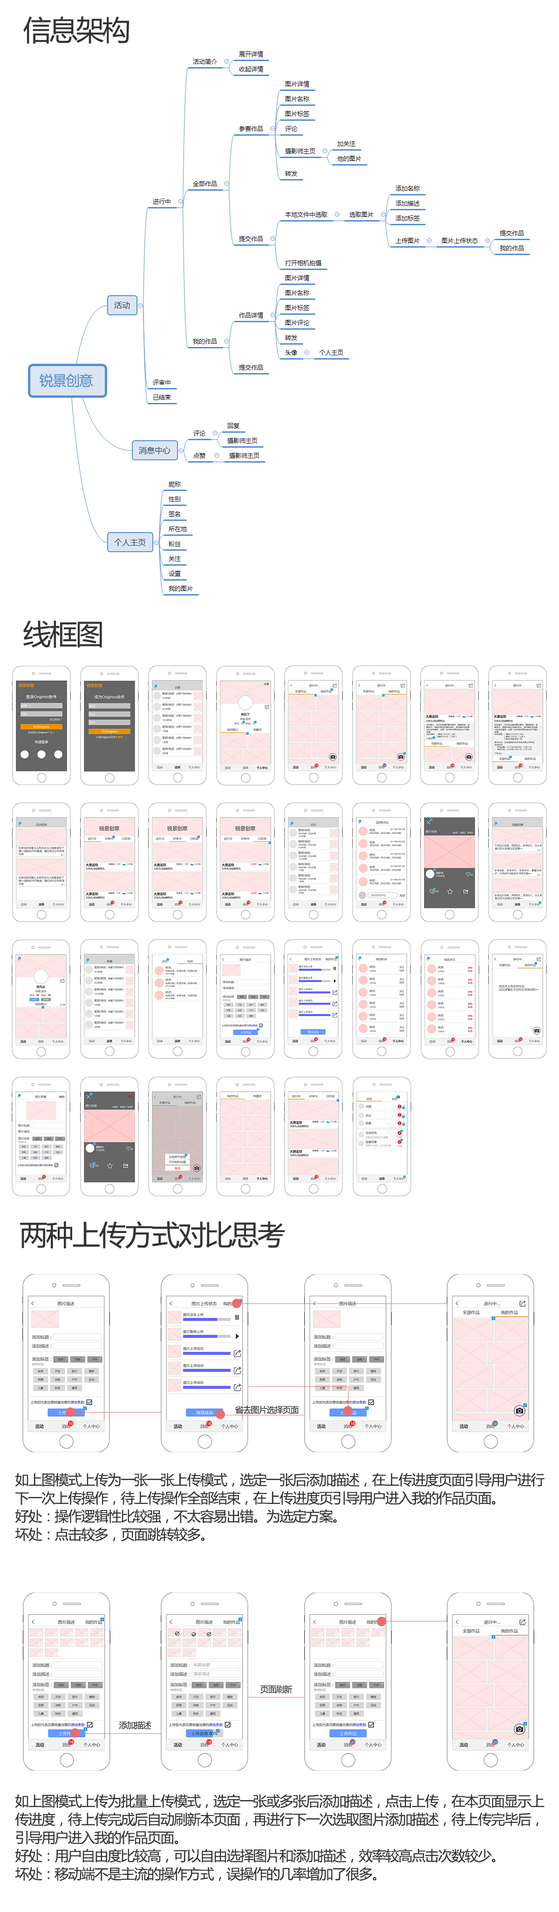
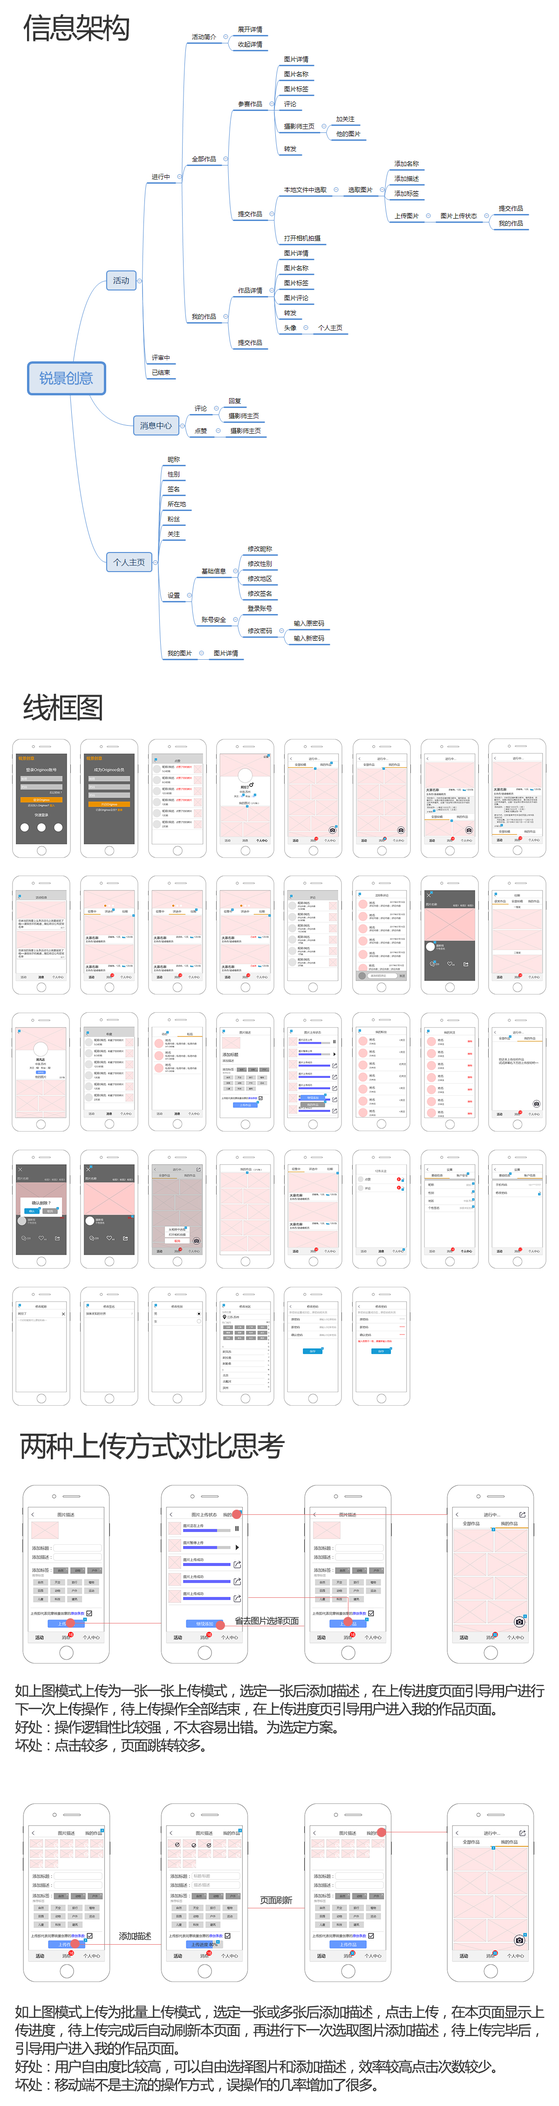
Site updated: 2017-08-06 18:30:31

diff --git a/2017/07/20/originoo/index.html b/2017/07/20/originoo/index.html
@@ -100,7 +100,7 @@
             <!-- Post -->
             <div class="typo" style="">
                 <p><img src="originoo.jpg" alt=""></p>
-<h1 id="Originoo-锐景创意-2017年05月-2017年8月-产品经理助理-交互设计师"><a href="#Originoo-锐景创意-2017年05月-2017年8月-产品经理助理-交互设计师" class="headerlink" title="Originoo 锐景创意 2017年05月-2017年8月 产品经理助理/交互设计师"></a>Originoo 锐景创意 2017年05月-2017年8月 产品经理助理/交互设计师</h1><h2 id="公司简介"><a href="#公司简介" class="headerlink" title="公司简介"></a><strong>公司简介</strong></h2><h3 id="锐景创意图库是一个集聚世界各地艺术家摄影、插画、视频、音乐作品的正版媒体素材库。我们致力于让每一位消费者能够便捷的购买到满意的媒体素材，并为艺术家提供可信赖的展示销售平台与合理的收入。"><a href="#锐景创意图库是一个集聚世界各地艺术家摄影、插画、视频、音乐作品的正版媒体素材库。我们致力于让每一位消费者能够便捷的购买到满意的媒体素材，并为艺术家提供可信赖的展示销售平台与合理的收入。" class="headerlink" title="锐景创意图库是一个集聚世界各地艺术家摄影、插画、视频、音乐作品的正版媒体素材库。我们致力于让每一位消费者能够便捷的购买到满意的媒体素材，并为艺术家提供可信赖的展示销售平台与合理的收入。"></a>锐景创意图库是一个集聚世界各地艺术家摄影、插画、视频、音乐作品的正版媒体素材库。我们致力于让每一位消费者能够便捷的购买到满意的媒体素材，并为艺术家提供可信赖的展示销售平台与合理的收入。</h3><h2 id="实习项目"><a href="#实习项目" class="headerlink" title="实习项目"></a><strong>实习项目</strong></h2><h3 id="1-Originoo-锐景创意移动端H5设计（移动端的活动版块，按照APP来设计，已排期预计8月中上线）"><a href="#1-Originoo-锐景创意移动端H5设计（移动端的活动版块，按照APP来设计，已排期预计8月中上线）" class="headerlink" title="1 Originoo 锐景创意移动端H5设计（移动端的活动版块，按照APP来设计，已排期预计8月中上线）"></a>1 Originoo 锐景创意移动端H5设计（移动端的活动版块，按照APP来设计，已排期预计8月中上线）</h3><h3 id="2-Originoo-锐景创意首页图片分类导航栏设计（已上线）"><a href="#2-Originoo-锐景创意首页图片分类导航栏设计（已上线）" class="headerlink" title="2 Originoo 锐景创意首页图片分类导航栏设计（已上线）"></a>2 Originoo 锐景创意首页图片分类导航栏设计（已上线）</h3><h3 id="3-图片详情页电商化设计（已上线）"><a href="#3-图片详情页电商化设计（已上线）" class="headerlink" title="3 图片详情页电商化设计（已上线）"></a>3 图片详情页电商化设计（已上线）</h3><h3 id="4-图片授权书生成查看页面原型交互设计（已排期7月底上线）"><a href="#4-图片授权书生成查看页面原型交互设计（已排期7月底上线）" class="headerlink" title="4 图片授权书生成查看页面原型交互设计（已排期7月底上线）"></a>4 图片授权书生成查看页面原型交互设计（已排期7月底上线）</h3><h3 id="5-供稿人中心设计（已排期8月初上线）"><a href="#5-供稿人中心设计（已排期8月初上线）" class="headerlink" title="5 供稿人中心设计（已排期8月初上线）"></a>5 供稿人中心设计（已排期8月初上线）</h3><h2 id="Originoo-锐景创意移动端活动版块H5设计"><a href="#Originoo-锐景创意移动端活动版块H5设计" class="headerlink" title="Originoo 锐景创意移动端活动版块H5设计"></a><strong>Originoo 锐景创意移动端活动版块H5设计</strong></h2><h3 id="本次的移动端H5设计，主要是将网页端的活动页面的功能，做成移动端的H5页面，主要功能有查看活动详情、查看参赛作品、上传个人作品、点赞评论等功能，按APP标准设计制作。公司长期战略需要上马一款APP，但主要功能和定位还不清楚，此次设计为移动端的一次试水，也可以理解为锐景创意APP前身。使用工具-PS-Axure-用时1个月。"><a href="#本次的移动端H5设计，主要是将网页端的活动页面的功能，做成移动端的H5页面，主要功能有查看活动详情、查看参赛作品、上传个人作品、点赞评论等功能，按APP标准设计制作。公司长期战略需要上马一款APP，但主要功能和定位还不清楚，此次设计为移动端的一次试水，也可以理解为锐景创意APP前身。使用工具-PS-Axure-用时1个月。" class="headerlink" title="本次的移动端H5设计，主要是将网页端的活动页面的功能，做成移动端的H5页面，主要功能有查看活动详情、查看参赛作品、上传个人作品、点赞评论等功能，按APP标准设计制作。公司长期战略需要上马一款APP，但主要功能和定位还不清楚，此次设计为移动端的一次试水，也可以理解为锐景创意APP前身。使用工具 PS Axure 用时1个月。"></a>本次的移动端H5设计，主要是将网页端的活动页面的功能，做成移动端的H5页面，主要功能有查看活动详情、查看参赛作品、上传个人作品、点赞评论等功能，按APP标准设计制作。公司长期战略需要上马一款APP，但主要功能和定位还不清楚，此次设计为移动端的一次试水，也可以理解为锐景创意APP前身。使用工具 PS Axure 用时1个月。</h3><h3 id="设计收获：这是第一次做移动端的设计，之前的实习经历都是做网页端的，对我来说是一个比较大的挑战，和伙伴们讨论了多次，也做了许多方案出来，不停的修改确定流程才到了如今这个版本，但肯定还有很多不足会继续迭代改正。个人感觉移动端和网页端的主要不同有一下几点：1-屏幕尺寸相差太大，一些在网页端一个页面可以完成的操作，移动端要几个页面才能完成。2-网页端操作会有光标会有各种不同的状态提示而移动端受制于屏幕尺寸的关系，各种提示信息设计难度会大一些。3-网页端可以开很多窗口而移动端只能是不同页面之间跳转，交互流程设计会有很大不同。4-设计H5页面时，应该考虑呈现端的不同，例如微信端的就和浏览器端的不同，而不同浏览器间也会有不同，应该充分考虑实际情况。"><a href="#设计收获：这是第一次做移动端的设计，之前的实习经历都是做网页端的，对我来说是一个比较大的挑战，和伙伴们讨论了多次，也做了许多方案出来，不停的修改确定流程才到了如今这个版本，但肯定还有很多不足会继续迭代改正。个人感觉移动端和网页端的主要不同有一下几点：1-屏幕尺寸相差太大，一些在网页端一个页面可以完成的操作，移动端要几个页面才能完成。2-网页端操作会有光标会有各种不同的状态提示而移动端受制于屏幕尺寸的关系，各种提示信息设计难度会大一些。3-网页端可以开很多窗口而移动端只能是不同页面之间跳转，交互流程设计会有很大不同。4-设计H5页面时，应该考虑呈现端的不同，例如微信端的就和浏览器端的不同，而不同浏览器间也会有不同，应该充分考虑实际情况。" class="headerlink" title="设计收获：这是第一次做移动端的设计，之前的实习经历都是做网页端的，对我来说是一个比较大的挑战，和伙伴们讨论了多次，也做了许多方案出来，不停的修改确定流程才到了如今这个版本，但肯定还有很多不足会继续迭代改正。个人感觉移动端和网页端的主要不同有一下几点：1.屏幕尺寸相差太大，一些在网页端一个页面可以完成的操作，移动端要几个页面才能完成。2.网页端操作会有光标会有各种不同的状态提示而移动端受制于屏幕尺寸的关系，各种提示信息设计难度会大一些。3.网页端可以开很多窗口而移动端只能是不同页面之间跳转，交互流程设计会有很大不同。4.设计H5页面时，应该考虑呈现端的不同，例如微信端的就和浏览器端的不同，而不同浏览器间也会有不同，应该充分考虑实际情况。"></a><strong>设计收获</strong>：这是第一次做移动端的设计，之前的实习经历都是做网页端的，对我来说是一个比较大的挑战，和伙伴们讨论了多次，也做了许多方案出来，不停的修改确定流程才到了如今这个版本，但肯定还有很多不足会继续迭代改正。个人感觉移动端和网页端的主要不同有一下几点：1.屏幕尺寸相差太大，一些在网页端一个页面可以完成的操作，移动端要几个页面才能完成。2.网页端操作会有光标会有各种不同的状态提示而移动端受制于屏幕尺寸的关系，各种提示信息设计难度会大一些。3.网页端可以开很多窗口而移动端只能是不同页面之间跳转，交互流程设计会有很大不同。4.设计H5页面时，应该考虑呈现端的不同，例如微信端的就和浏览器端的不同，而不同浏览器间也会有不同，应该充分考虑实际情况。</h3><h3 id="原型链接：Originoo-锐景创意-iphone用户可以用手机自带浏览器打开，可自适应屏幕。"><a href="#原型链接：Originoo-锐景创意-iphone用户可以用手机自带浏览器打开，可自适应屏幕。" class="headerlink" title="原型链接：Originoo 锐景创意 iphone用户可以用手机自带浏览器打开，可自适应屏幕。"></a><strong>原型链接</strong>：<a href="http://7vklcr.axshare.com/#c=2" target="_blank" rel="external">Originoo 锐景创意</a> iphone用户可以用手机自带浏览器打开，可自适应屏幕。</h3><p><img src="H501.jpg" alt=""><br><img src="H502.jpg" alt=""></p>
+<h1 id="Originoo-锐景创意-2017年05月-2017年8月-产品经理助理-交互设计师"><a href="#Originoo-锐景创意-2017年05月-2017年8月-产品经理助理-交互设计师" class="headerlink" title="Originoo 锐景创意 2017年05月-2017年8月 产品经理助理/交互设计师"></a>Originoo 锐景创意 2017年05月-2017年8月 产品经理助理/交互设计师</h1><h2 id="公司简介"><a href="#公司简介" class="headerlink" title="公司简介"></a><strong>公司简介</strong></h2><h3 id="锐景创意图库是一个集聚世界各地艺术家摄影、插画、视频、音乐作品的正版媒体素材库。我们致力于让每一位消费者能够便捷的购买到满意的媒体素材，并为艺术家提供可信赖的展示销售平台与合理的收入。"><a href="#锐景创意图库是一个集聚世界各地艺术家摄影、插画、视频、音乐作品的正版媒体素材库。我们致力于让每一位消费者能够便捷的购买到满意的媒体素材，并为艺术家提供可信赖的展示销售平台与合理的收入。" class="headerlink" title="锐景创意图库是一个集聚世界各地艺术家摄影、插画、视频、音乐作品的正版媒体素材库。我们致力于让每一位消费者能够便捷的购买到满意的媒体素材，并为艺术家提供可信赖的展示销售平台与合理的收入。"></a>锐景创意图库是一个集聚世界各地艺术家摄影、插画、视频、音乐作品的正版媒体素材库。我们致力于让每一位消费者能够便捷的购买到满意的媒体素材，并为艺术家提供可信赖的展示销售平台与合理的收入。</h3><h2 id="实习项目"><a href="#实习项目" class="headerlink" title="实习项目"></a><strong>实习项目</strong></h2><h3 id="1-Originoo-锐景创意移动端H5设计（移动端的活动版块，按照APP来设计，已排期预计9月中上线）"><a href="#1-Originoo-锐景创意移动端H5设计（移动端的活动版块，按照APP来设计，已排期预计9月中上线）" class="headerlink" title="1 Originoo 锐景创意移动端H5设计（移动端的活动版块，按照APP来设计，已排期预计9月中上线）"></a>1 Originoo 锐景创意移动端H5设计（移动端的活动版块，按照APP来设计，已排期预计9月中上线）</h3><h3 id="2-Originoo-锐景创意首页图片分类导航栏设计（已上线）"><a href="#2-Originoo-锐景创意首页图片分类导航栏设计（已上线）" class="headerlink" title="2 Originoo 锐景创意首页图片分类导航栏设计（已上线）"></a>2 Originoo 锐景创意首页图片分类导航栏设计（已上线）</h3><h3 id="3-图片详情页电商化设计（已上线）"><a href="#3-图片详情页电商化设计（已上线）" class="headerlink" title="3 图片详情页电商化设计（已上线）"></a>3 图片详情页电商化设计（已上线）</h3><h3 id="4-图片授权书生成查看页面原型交互设计（已排期8月中上线）"><a href="#4-图片授权书生成查看页面原型交互设计（已排期8月中上线）" class="headerlink" title="4 图片授权书生成查看页面原型交互设计（已排期8月中上线）"></a>4 图片授权书生成查看页面原型交互设计（已排期8月中上线）</h3><h3 id="5-供稿人中心设计（已排期8月底上线）"><a href="#5-供稿人中心设计（已排期8月底上线）" class="headerlink" title="5 供稿人中心设计（已排期8月底上线）"></a>5 供稿人中心设计（已排期8月底上线）</h3><h2 id="Originoo-锐景创意移动端活动版块H5设计"><a href="#Originoo-锐景创意移动端活动版块H5设计" class="headerlink" title="Originoo 锐景创意移动端活动版块H5设计"></a><strong>Originoo 锐景创意移动端活动版块H5设计</strong></h2><h3 id="本次的移动端H5设计，主要是将网页端的活动页面的功能，做成移动端的H5页面，主要功能有查看活动详情、查看参赛作品、上传个人作品、点赞评论等功能，按APP标准设计制作。公司长期战略需要上马一款APP，但主要功能和定位还不清楚，此次设计为移动端的一次试水，也可以理解为锐景创意APP前身。使用工具-PS-Axure-用时1个月。"><a href="#本次的移动端H5设计，主要是将网页端的活动页面的功能，做成移动端的H5页面，主要功能有查看活动详情、查看参赛作品、上传个人作品、点赞评论等功能，按APP标准设计制作。公司长期战略需要上马一款APP，但主要功能和定位还不清楚，此次设计为移动端的一次试水，也可以理解为锐景创意APP前身。使用工具-PS-Axure-用时1个月。" class="headerlink" title="本次的移动端H5设计，主要是将网页端的活动页面的功能，做成移动端的H5页面，主要功能有查看活动详情、查看参赛作品、上传个人作品、点赞评论等功能，按APP标准设计制作。公司长期战略需要上马一款APP，但主要功能和定位还不清楚，此次设计为移动端的一次试水，也可以理解为锐景创意APP前身。使用工具 PS Axure 用时1个月。"></a>本次的移动端H5设计，主要是将网页端的活动页面的功能，做成移动端的H5页面，主要功能有查看活动详情、查看参赛作品、上传个人作品、点赞评论等功能，按APP标准设计制作。公司长期战略需要上马一款APP，但主要功能和定位还不清楚，此次设计为移动端的一次试水，也可以理解为锐景创意APP前身。使用工具 PS Axure 用时1个月。</h3><h3 id="设计收获：这是第一次做移动端的设计，之前的实习经历都是做网页端的，对我来说是一个比较大的挑战，和伙伴们讨论了多次，也做了许多方案出来，不停的修改确定流程才到了如今这个版本，但肯定还有很多不足会继续迭代改正。个人感觉移动端和网页端的主要不同有一下几点：1-屏幕尺寸相差太大，一些在网页端一个页面可以完成的操作，移动端要几个页面才能完成。2-网页端操作会有光标会有各种不同的状态提示而移动端受制于屏幕尺寸的关系，各种提示信息设计难度会大一些。3-网页端可以开很多窗口而移动端只能是不同页面之间跳转，交互流程设计会有很大不同。4-设计H5页面时，应该考虑呈现端的不同，例如微信端的就和浏览器端的不同，而不同浏览器间也会有不同，应该充分考虑实际情况。"><a href="#设计收获：这是第一次做移动端的设计，之前的实习经历都是做网页端的，对我来说是一个比较大的挑战，和伙伴们讨论了多次，也做了许多方案出来，不停的修改确定流程才到了如今这个版本，但肯定还有很多不足会继续迭代改正。个人感觉移动端和网页端的主要不同有一下几点：1-屏幕尺寸相差太大，一些在网页端一个页面可以完成的操作，移动端要几个页面才能完成。2-网页端操作会有光标会有各种不同的状态提示而移动端受制于屏幕尺寸的关系，各种提示信息设计难度会大一些。3-网页端可以开很多窗口而移动端只能是不同页面之间跳转，交互流程设计会有很大不同。4-设计H5页面时，应该考虑呈现端的不同，例如微信端的就和浏览器端的不同，而不同浏览器间也会有不同，应该充分考虑实际情况。" class="headerlink" title="设计收获：这是第一次做移动端的设计，之前的实习经历都是做网页端的，对我来说是一个比较大的挑战，和伙伴们讨论了多次，也做了许多方案出来，不停的修改确定流程才到了如今这个版本，但肯定还有很多不足会继续迭代改正。个人感觉移动端和网页端的主要不同有一下几点：1.屏幕尺寸相差太大，一些在网页端一个页面可以完成的操作，移动端要几个页面才能完成。2.网页端操作会有光标会有各种不同的状态提示而移动端受制于屏幕尺寸的关系，各种提示信息设计难度会大一些。3.网页端可以开很多窗口而移动端只能是不同页面之间跳转，交互流程设计会有很大不同。4.设计H5页面时，应该考虑呈现端的不同，例如微信端的就和浏览器端的不同，而不同浏览器间也会有不同，应该充分考虑实际情况。"></a><strong>设计收获</strong>：这是第一次做移动端的设计，之前的实习经历都是做网页端的，对我来说是一个比较大的挑战，和伙伴们讨论了多次，也做了许多方案出来，不停的修改确定流程才到了如今这个版本，但肯定还有很多不足会继续迭代改正。个人感觉移动端和网页端的主要不同有一下几点：1.屏幕尺寸相差太大，一些在网页端一个页面可以完成的操作，移动端要几个页面才能完成。2.网页端操作会有光标会有各种不同的状态提示而移动端受制于屏幕尺寸的关系，各种提示信息设计难度会大一些。3.网页端可以开很多窗口而移动端只能是不同页面之间跳转，交互流程设计会有很大不同。4.设计H5页面时，应该考虑呈现端的不同，例如微信端的就和浏览器端的不同，而不同浏览器间也会有不同，应该充分考虑实际情况。</h3><h3 id="原型链接：Originoo-锐景创意-iphone用户可以用手机自带浏览器打开，可自适应屏幕。"><a href="#原型链接：Originoo-锐景创意-iphone用户可以用手机自带浏览器打开，可自适应屏幕。" class="headerlink" title="原型链接：Originoo 锐景创意 iphone用户可以用手机自带浏览器打开，可自适应屏幕。"></a><strong>原型链接</strong>：<a href="http://ctfmby.axshare.com/#c=2" target="_blank" rel="external">Originoo 锐景创意</a> iphone用户可以用手机自带浏览器打开，可自适应屏幕。</h3><p><img src="H501.jpg" alt=""><br><img src="H503.jpg" alt=""><br><img src="H502.jpg" alt=""></p>
 <h2 id="Originoo-锐景创意首页图片分类导航栏设计"><a href="#Originoo-锐景创意首页图片分类导航栏设计" class="headerlink" title="Originoo 锐景创意首页图片分类导航栏设计"></a><strong>Originoo 锐景创意首页图片分类导航栏设计</strong></h2><h3 id="接到图片分类导航栏设计需求，为照片和矢量图片设计分类导航栏。需要分为三级，并且直观简单易用。矢量文件的分类和关键词提取也是自己本人完成，目前分类导航栏已上线。"><a href="#接到图片分类导航栏设计需求，为照片和矢量图片设计分类导航栏。需要分为三级，并且直观简单易用。矢量文件的分类和关键词提取也是自己本人完成，目前分类导航栏已上线。" class="headerlink" title="接到图片分类导航栏设计需求，为照片和矢量图片设计分类导航栏。需要分为三级，并且直观简单易用。矢量文件的分类和关键词提取也是自己本人完成，目前分类导航栏已上线。"></a>接到图片分类导航栏设计需求，为照片和矢量图片设计分类导航栏。需要分为三级，并且直观简单易用。矢量文件的分类和关键词提取也是自己本人完成，目前分类导航栏已上线。</h3><h3 id="网址链接：锐景创意"><a href="#网址链接：锐景创意" class="headerlink" title="网址链接：锐景创意"></a><strong>网址链接</strong>：<a href="www.originoo.com">锐景创意</a></h3><p><img src="fenlei.jpg" alt=""></p>
 <h2 id="图片详情页电商化设计"><a href="#图片详情页电商化设计" class="headerlink" title="图片详情页电商化设计"></a><strong>图片详情页电商化设计</strong></h2><h3 id="Originoo锐景创意2-0改版，要全面电商化。接需求设计图片详情页，需求为尽量直观易懂，着重推荐套餐购买和批量下载功能，区分未购买套餐用户和已购买套餐用户，体现套餐购买的优惠程度，目前已上线。"><a href="#Originoo锐景创意2-0改版，要全面电商化。接需求设计图片详情页，需求为尽量直观易懂，着重推荐套餐购买和批量下载功能，区分未购买套餐用户和已购买套餐用户，体现套餐购买的优惠程度，目前已上线。" class="headerlink" title="Originoo锐景创意2.0改版，要全面电商化。接需求设计图片详情页，需求为尽量直观易懂，着重推荐套餐购买和批量下载功能，区分未购买套餐用户和已购买套餐用户，体现套餐购买的优惠程度，目前已上线。"></a>Originoo锐景创意2.0改版，要全面电商化。接需求设计图片详情页，需求为尽量直观易懂，着重推荐套餐购买和批量下载功能，区分未购买套餐用户和已购买套餐用户，体现套餐购买的优惠程度，目前已上线。</h3><p><img src="xiangqing.jpg" alt=""></p>
 <h2 id="图片授权书生成查看页面原型设计"><a href="#图片授权书生成查看页面原型设计" class="headerlink" title="图片授权书生成查看页面原型设计"></a><strong>图片授权书生成查看页面原型设计</strong></h2><h3 id="Originoo锐景创意2-0改版，需要有专门页面来生成授权书和查看授权书记录，入口是在个人中心页面，授权书是具有法律效力但不常用到的功能。授权书生成需要如下几个要素：被授权方、购买方、和被授权图片组成，而查看授权书则主要是参考被授权方和生成授权时间。方案已确定，已排期。只展示方案的重要页面，详情存放在如下链接当中。"><a href="#Originoo锐景创意2-0改版，需要有专门页面来生成授权书和查看授权书记录，入口是在个人中心页面，授权书是具有法律效力但不常用到的功能。授权书生成需要如下几个要素：被授权方、购买方、和被授权图片组成，而查看授权书则主要是参考被授权方和生成授权时间。方案已确定，已排期。只展示方案的重要页面，详情存放在如下链接当中。" class="headerlink" title="Originoo锐景创意2.0改版，需要有专门页面来生成授权书和查看授权书记录，入口是在个人中心页面，授权书是具有法律效力但不常用到的功能。授权书生成需要如下几个要素：被授权方、购买方、和被授权图片组成，而查看授权书则主要是参考被授权方和生成授权时间。方案已确定，已排期。只展示方案的重要页面，详情存放在如下链接当中。"></a>Originoo锐景创意2.0改版，需要有专门页面来生成授权书和查看授权书记录，入口是在个人中心页面，授权书是具有法律效力但不常用到的功能。授权书生成需要如下几个要素：被授权方、购买方、和被授权图片组成，而查看授权书则主要是参考被授权方和生成授权时间。方案已确定，已排期。只展示方案的重要页面，详情存放在如下链接当中。</h3><h3 id="网址链接：授权书的三个方案"><a href="#网址链接：授权书的三个方案" class="headerlink" title="网址链接：授权书的三个方案"></a><strong>网址链接</strong>：<a href="http://so0o45.axshare.com" target="_blank" rel="external">授权书的三个方案</a></h3><p><img src="sq01.jpg" alt=""><br><img src="sq02.jpg" alt=""><br><img src="sq03.jpg" alt=""></p>
